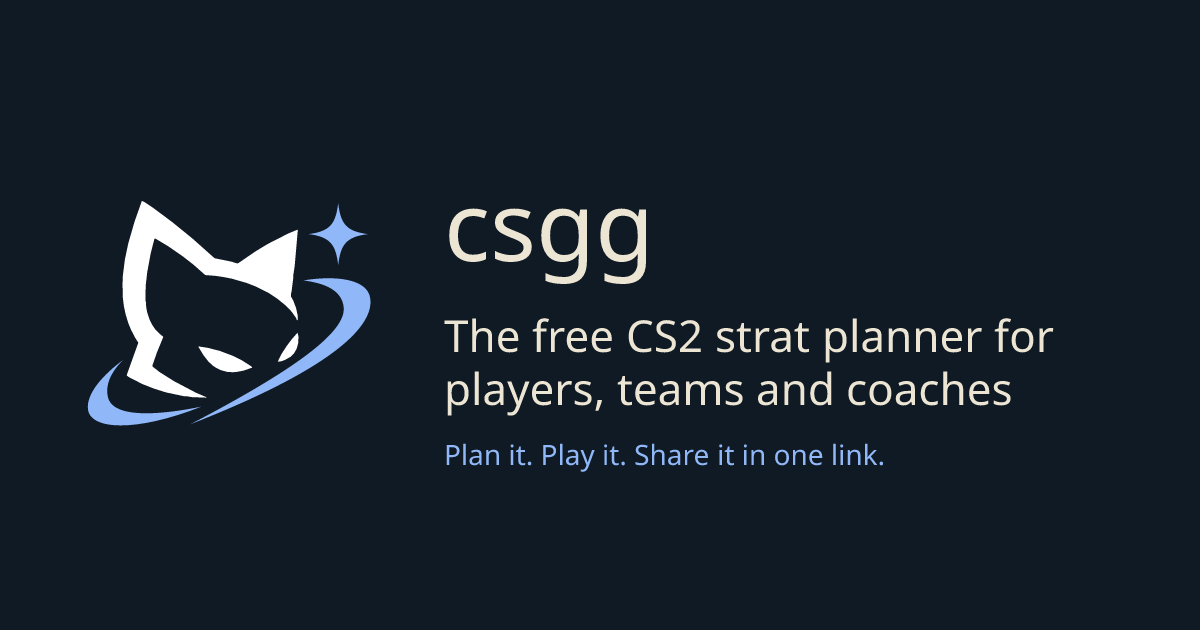
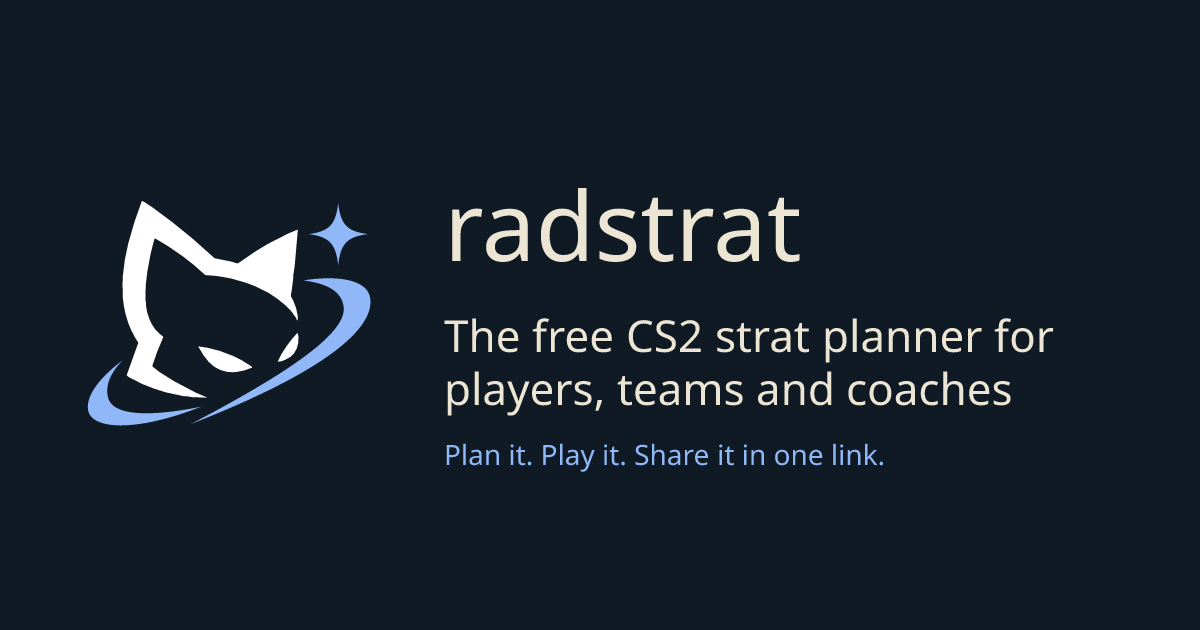
Rename the app to radstrat and make https://radstrat.app the site address
Claude-Session: https://claude.ai/code/session_01DJuEWbttgphNtsMb9r4ejN

Changed region(s): [[0.37, 0.3016, 0.6783, 0.4524]]

diff --git a/src/components/logo-mark.tsx b/src/components/logo-mark.tsx
@@ -1,5 +1,5 @@
 /**
- * The csgg mark: a white cat head inside a light-blue orbit, with a four-point star.
+ * The radstrat mark: a white cat head inside a light-blue orbit, with a four-point star.
  * Vector paths on a 1024 grid; the cat is drawn first so the orbit passes in front of it.
  */
 export const LOGO_CAT = "M423.2 602.0L438.2 626.5L452.2 644.5L465.2 656.5L474.2 662.5L488.2 669.5L508.0 674.8L517.8 674.8L520.0 675.8L533.8 674.8L554.8 670.8L578.5 662.5L579.5 661.2L576.5 658.2L549.5 641.2L523.5 628.2L485.8 614.0L450.8 605.0L424.5 601.0ZM711.2 561.0L694.2 580.2L679.2 600.2L664.2 623.2L653.5 645.2L663.8 643.8L673.5 640.5L691.5 630.5L700.5 621.5L708.5 607.5L712.8 591.8L713.8 573.0ZM259.2 180.0L238.0 240.0L220.0 302.0L210.0 349.0L204.0 397.0L204.0 412.8L203.0 415.0L204.0 459.8L207.0 483.8L212.0 507.8L220.2 534.5L228.2 553.5L240.2 576.5L249.0 590.0L215.0 684.5L221.2 689.5L260.2 709.5L293.2 722.5L329.0 733.8L381.0 744.8L387.8 744.8L406.0 747.8L442.8 748.8L445.5 749.8L446.8 749.0L446.0 747.5L416.2 734.8L353.2 701.8L310.2 674.8L289.8 658.8L289.8 656.0L303.0 618.2L321.0 574.5L321.0 572.8L309.2 563.0L298.0 551.5L288.0 536.5L282.0 524.5L274.8 502.8L271.8 487.8L270.8 471.0L269.8 468.8L269.8 436.0L270.8 433.8L270.8 421.0L274.8 386.0L284.8 332.0L295.5 290.2L296.5 289.0L298.5 289.0L335.5 311.0L377.5 340.0L408.5 364.0L443.2 394.5L472.8 396.8L493.8 399.8L519.8 404.8L562.5 417.0L588.5 427.0L628.5 447.0L652.5 463.0L674.5 480.8L693.8 500.2L705.8 517.2L709.2 524.5L711.2 526.0L711.8 513.0L706.8 490.0L698.5 468.2L692.0 456.5L691.8 450.0L693.8 440.8L698.8 401.8L698.8 394.0L702.8 367.8L711.8 264.2L711.0 263.2L684.2 274.2L625.2 304.2L590.2 325.2L539.5 359.8L536.0 361.0L520.8 356.0L470.2 345.8L406.5 289.2L348.5 242.2L293.5 201.2L266.5 183.2Z";

diff --git a/src/components/library.tsx b/src/components/library.tsx
@@ -5,6 +5,7 @@ import { useRouter } from "next/navigation";
 import { useEffect, useState } from "react";
 import { Board } from "@/components/board";
 import { Logo } from "@/components/logo";
+import { APP_NAME } from "@/lib/brand";
 import { MAPS, MAP_IDS, type MapId } from "@/lib/maps";
 import { createStrat, duplicateStrat } from "@/lib/strat/model";
 import { deleteStrat, listStrats, saveStrat } from "@/lib/strat/storage";
@@ -178,7 +179,7 @@ export function Library() {
       </section>
 
       <footer className="mt-16 border-t border-line pt-6 text-sm text-faint">
-        Map radar overviews and screenshots are © Valve Corporation. csgg is not affiliated with or endorsed by Valve.
+        Map radar overviews and screenshots are © Valve Corporation. {APP_NAME} is not affiliated with or endorsed by Valve.
       </footer>
     </main>
   );

diff --git a/src/lib/site.ts b/src/lib/site.ts
@@ -1,7 +1,10 @@
 import { APP_NAME } from "@/lib/brand";
 
 /** Public URL of the site. Set NEXT_PUBLIC_SITE_URL (e.g. https://csrecap.com) when it goes live. */
-export const SITE_URL = (process.env.NEXT_PUBLIC_SITE_URL || "http://localhost:3000").replace(/\/$/, "");
+/** The live address. NEXT_PUBLIC_SITE_URL overrides it (e.g. for a test address); `npm run dev` uses localhost. */
+export const SITE_URL = (
+  process.env.NEXT_PUBLIC_SITE_URL || (process.env.NODE_ENV === "development" ? "http://localhost:3000" : "https://radstrat.app")
+).replace(/\/$/, "");
 
 export const SITE_TITLE = `${APP_NAME}: free CS2 strat planner for players, teams and coaches`;
 export const SITE_DESCRIPTION =

diff --git a/src/lib/brand.ts b/src/lib/brand.ts
@@ -1,2 +1,2 @@
 /** The product name, used in the logo, page titles and the welcome popup. */
-export const APP_NAME = "csgg";
+export const APP_NAME = "radstrat";

diff --git a/CLAUDE.md b/CLAUDE.md
@@ -1,4 +1,4 @@
-# csgg: project notes for Claude
+# radstrat (formerly csgg): project notes for Claude
 
 Read this first. It sums up what was built and decided in the earlier sessions, so you can carry on without
 asking the owner to repeat themselves.
@@ -10,7 +10,7 @@ asking the owner to repeat themselves.
 - Likes to see results: after visible changes, describe what changed and, where possible, show it.
 - Ask before anything hard to undo (deleting, overwriting, pushing to `main`, deploying).
 
-## What csgg is
+## What radstrat is
 
 A free, browser-based **CS2 strat planner / tactics board** (like ValoPlant, but for Counter-Strike 2) for players,
 IGLs, teams, coaches and esports. Plan executes on a 2D map phase by phase, play it back, share it in one link.
@@ -65,9 +65,9 @@ Before saying something works: type check, lint, tests and build must pass, and 
   `toolbar.tsx`, `tool-options.tsx` (pen and cone panels), `inspector.tsx`, `phase-bar.tsx`, `glyphs.tsx`,
   `utility-icons.tsx` (own grenade icons: cloud, starburst, frag, bottle, decoy with waves), `marker-icons.tsx`
   (lucide icons for markers), `map-layer.tsx`.
-- `src/lib/brand.ts`: the app name (`csgg`). `src/lib/site.ts`: site URL, title, description, FAQ.
+- `src/lib/brand.ts`: the app name (`radstrat`). `src/lib/site.ts`: site URL, title, description, FAQ.
 - `src/app/page.tsx`: landing page with JSON-LD (SoftwareApplication, FAQPage). Also `robots.ts`, `sitemap.ts`,
-  `opengraph-image.tsx`, `icon.svg`, `public/llms.txt`.
+  `opengraph-image.png`, `icon.svg`, `public/llms.txt`.
 
 ## Decisions already made (don't undo without asking)
 
@@ -77,7 +77,8 @@ Before saying something works: type check, lint, tests and build must pass, and 
 - Map style follows ValoPlant: plain, bombsite letters only, callout names behind a "Callouts" toggle.
   Full callouts exist for Mirage and Dust II; the other six maps have sites and spawns only. Nuke is the upper
   level only; Vertigo is missing (two levels).
-- Name is **csgg**. Logo is a white cat head inside a light-blue orbit with a star (`src/components/logo-mark.tsx`,
+- Name is **radstrat** (renamed from csgg in Nov 2026; live at https://radstrat.app). `APP_NAME` in `brand.ts`
+  drives the wordmark, titles and copy; the share image `opengraph-image.png` has the name baked in. Logo is a white cat head inside a light-blue orbit with a star (`src/components/logo-mark.tsx`,
   vector paths; the source image has a transparent background, so the white cat is easy to miss).
 - **Calls to action are light blue** (`--brand: #90b8f8`, `.btn-primary`). Selection on the board is chalk
   (`--chalk`). T is orange (`--t`), CT is blue (`--ct`).
@@ -131,8 +132,10 @@ Before saying something works: type check, lint, tests and build must pass, and 
 
 ## Hosting on Cloudflare Pages (the owner's choice; domain bought at Cloudflare)
 
-- Pages project connected to GitHub `ariyakongkam/csrecap`, production branch `claude/hopeful-edison-tja98v`,
-  build command `npm run export`, output folder `out`, env var `NEXT_PUBLIC_SITE_URL=https://<domain>`.
+- Pages project `radstrat` connected to GitHub `ariyakongkam/csrecap`, production branch
+  `claude/hopeful-edison-tja98v`, framework preset None, build command `npm run export`, output folder `out`,
+  custom domain `radstrat.app`. `SITE_URL` defaults to https://radstrat.app outside `npm run dev`, so no env var is
+  needed (`NEXT_PUBLIC_SITE_URL` still overrides it).
   `.node-version` pins Node 22 for the build. `public/_headers` sets security and cache headers. Pages serves
   `/app` from `app.html` and `404.html` for unknown paths. Every push to the branch deploys automatically.
 - The share image is a static `src/app/opengraph-image.png` (+ `.alt.txt`), so every host serves it as a PNG.
@@ -160,8 +163,6 @@ owner runs `update.bat`, or tell them not to run it, because it overwrites uncom
 
 ## Not built yet / ideas
 
-- Deploy (e.g. Vercel) and point the owner's domain at it; set `NEXT_PUBLIC_SITE_URL` for canonical links,
-  sitemap and share previews.
 - Full callouts for the remaining maps; Nuke lower level and Vertigo.
 - Team workspaces, real-time co-editing, comments (would need a backend and accounts).
 - The idea with the most product value from the research: compare a planned strat with what the team actually
